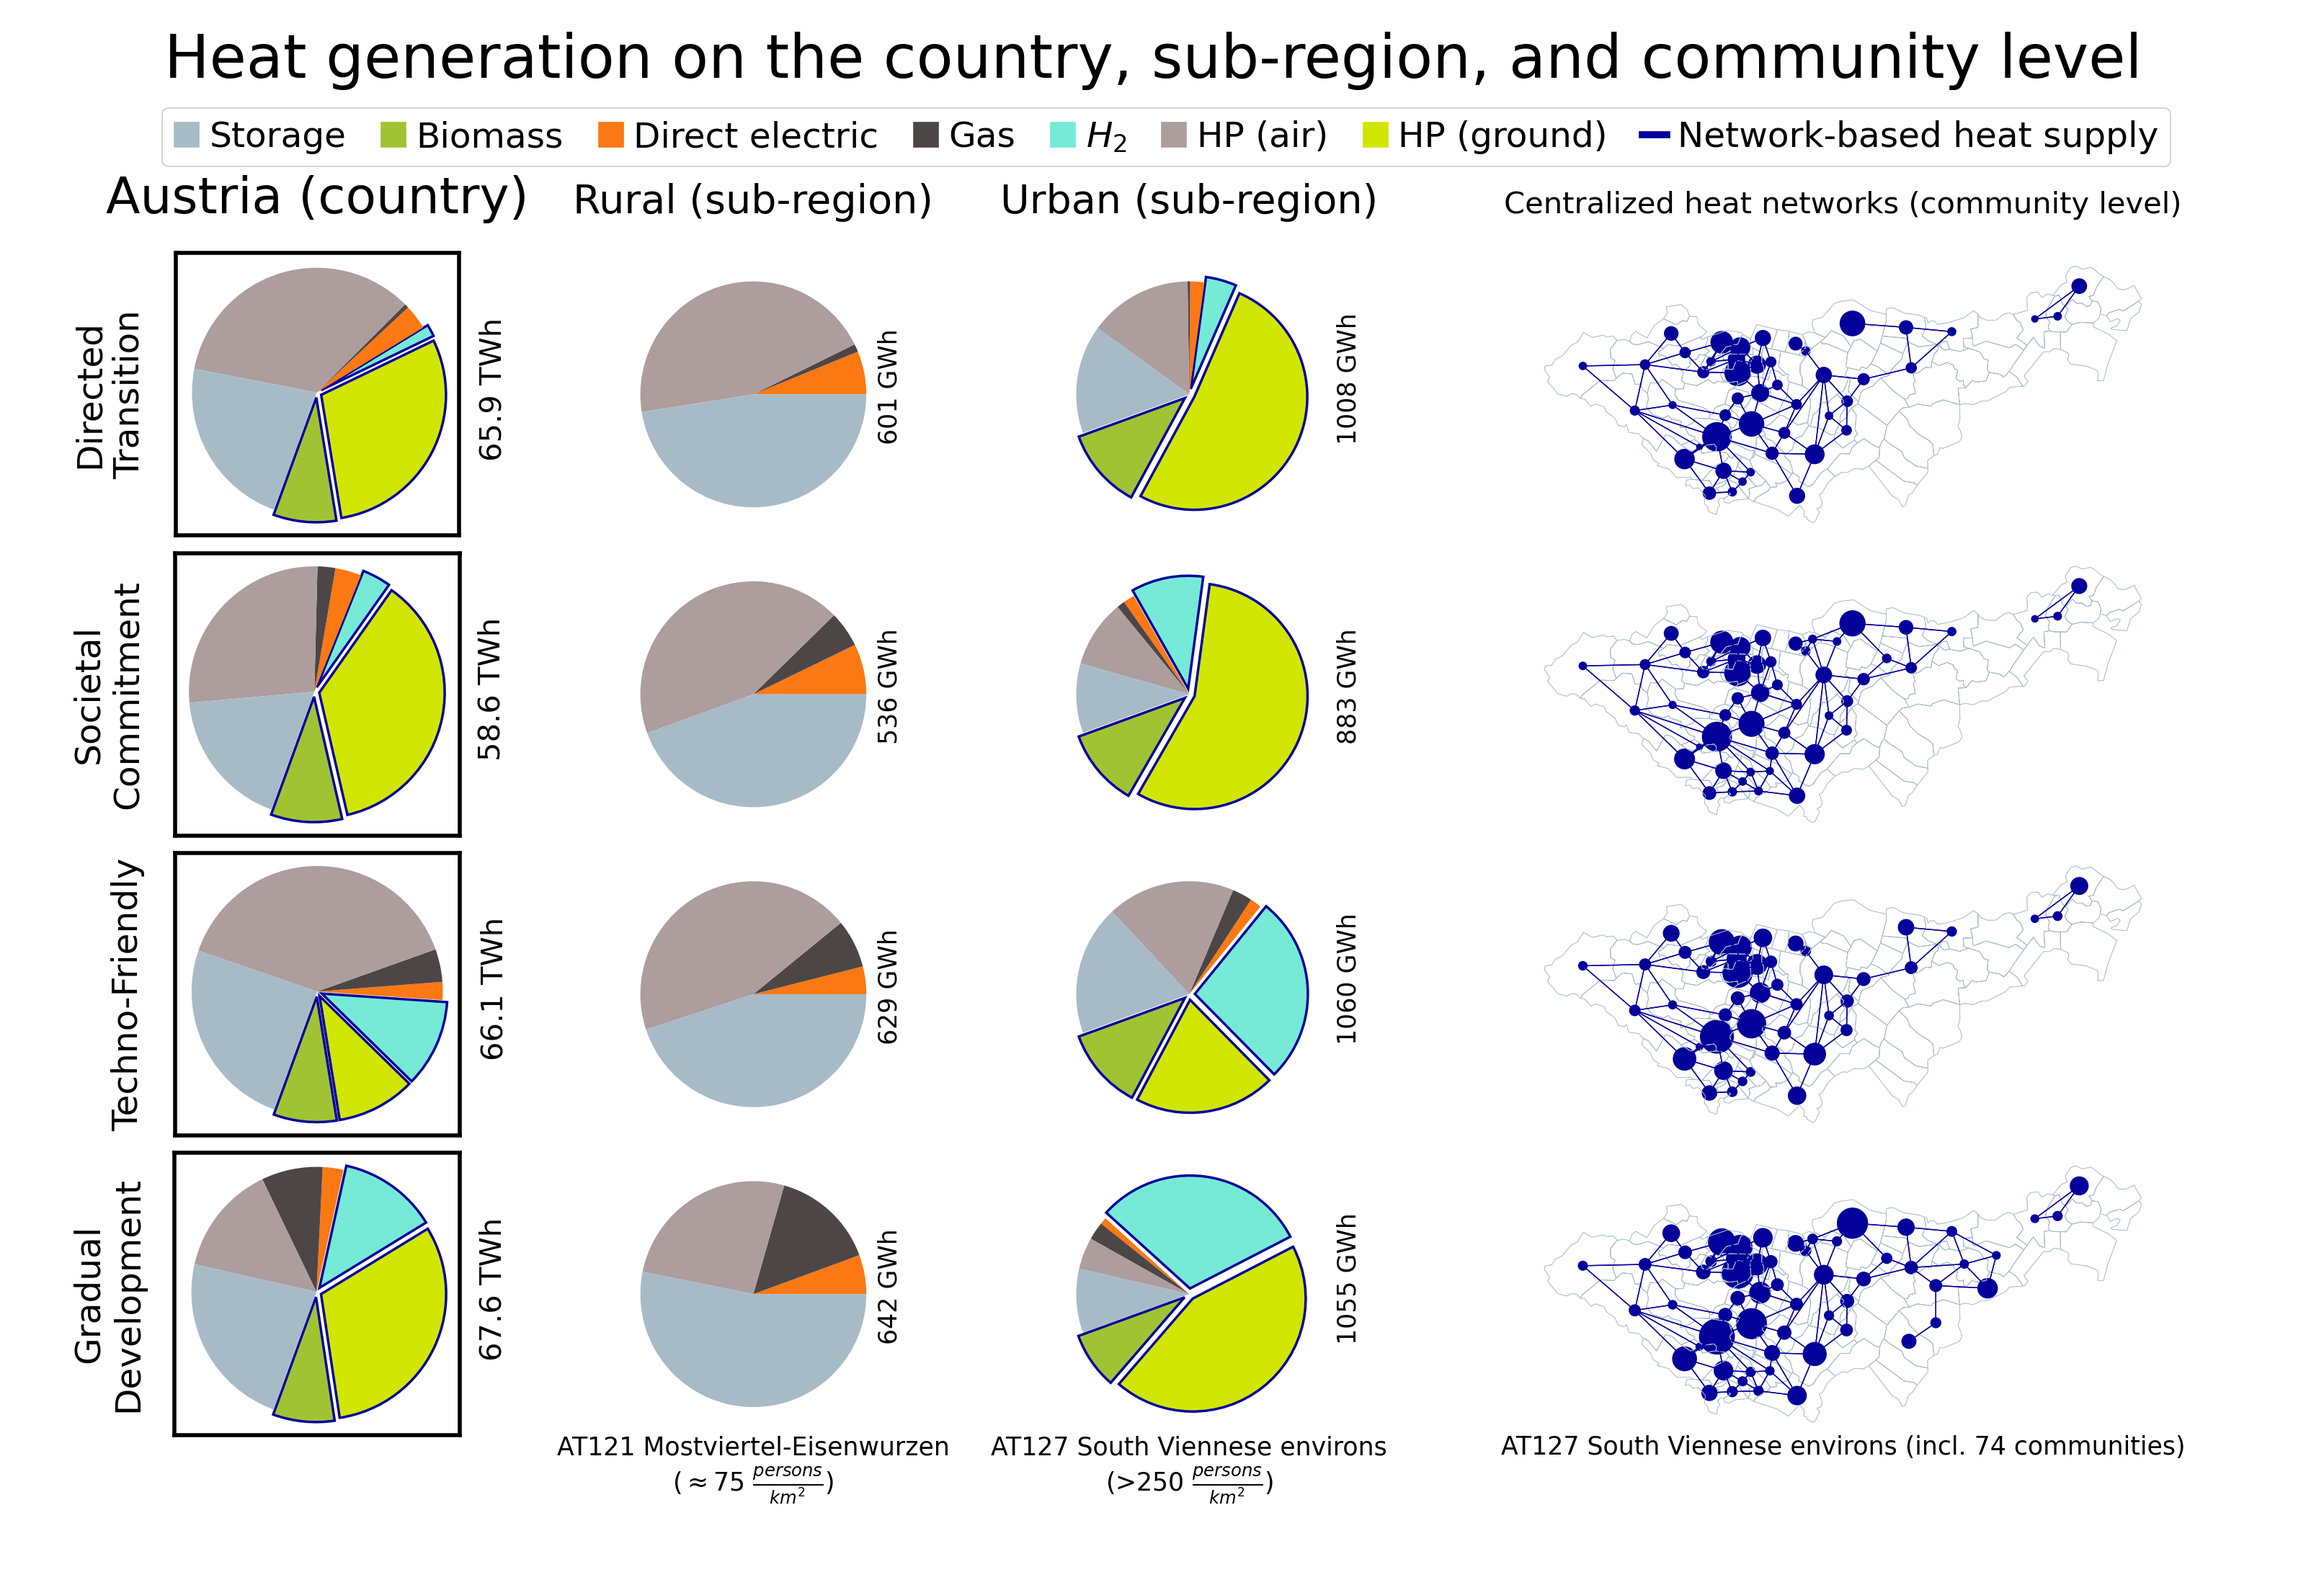
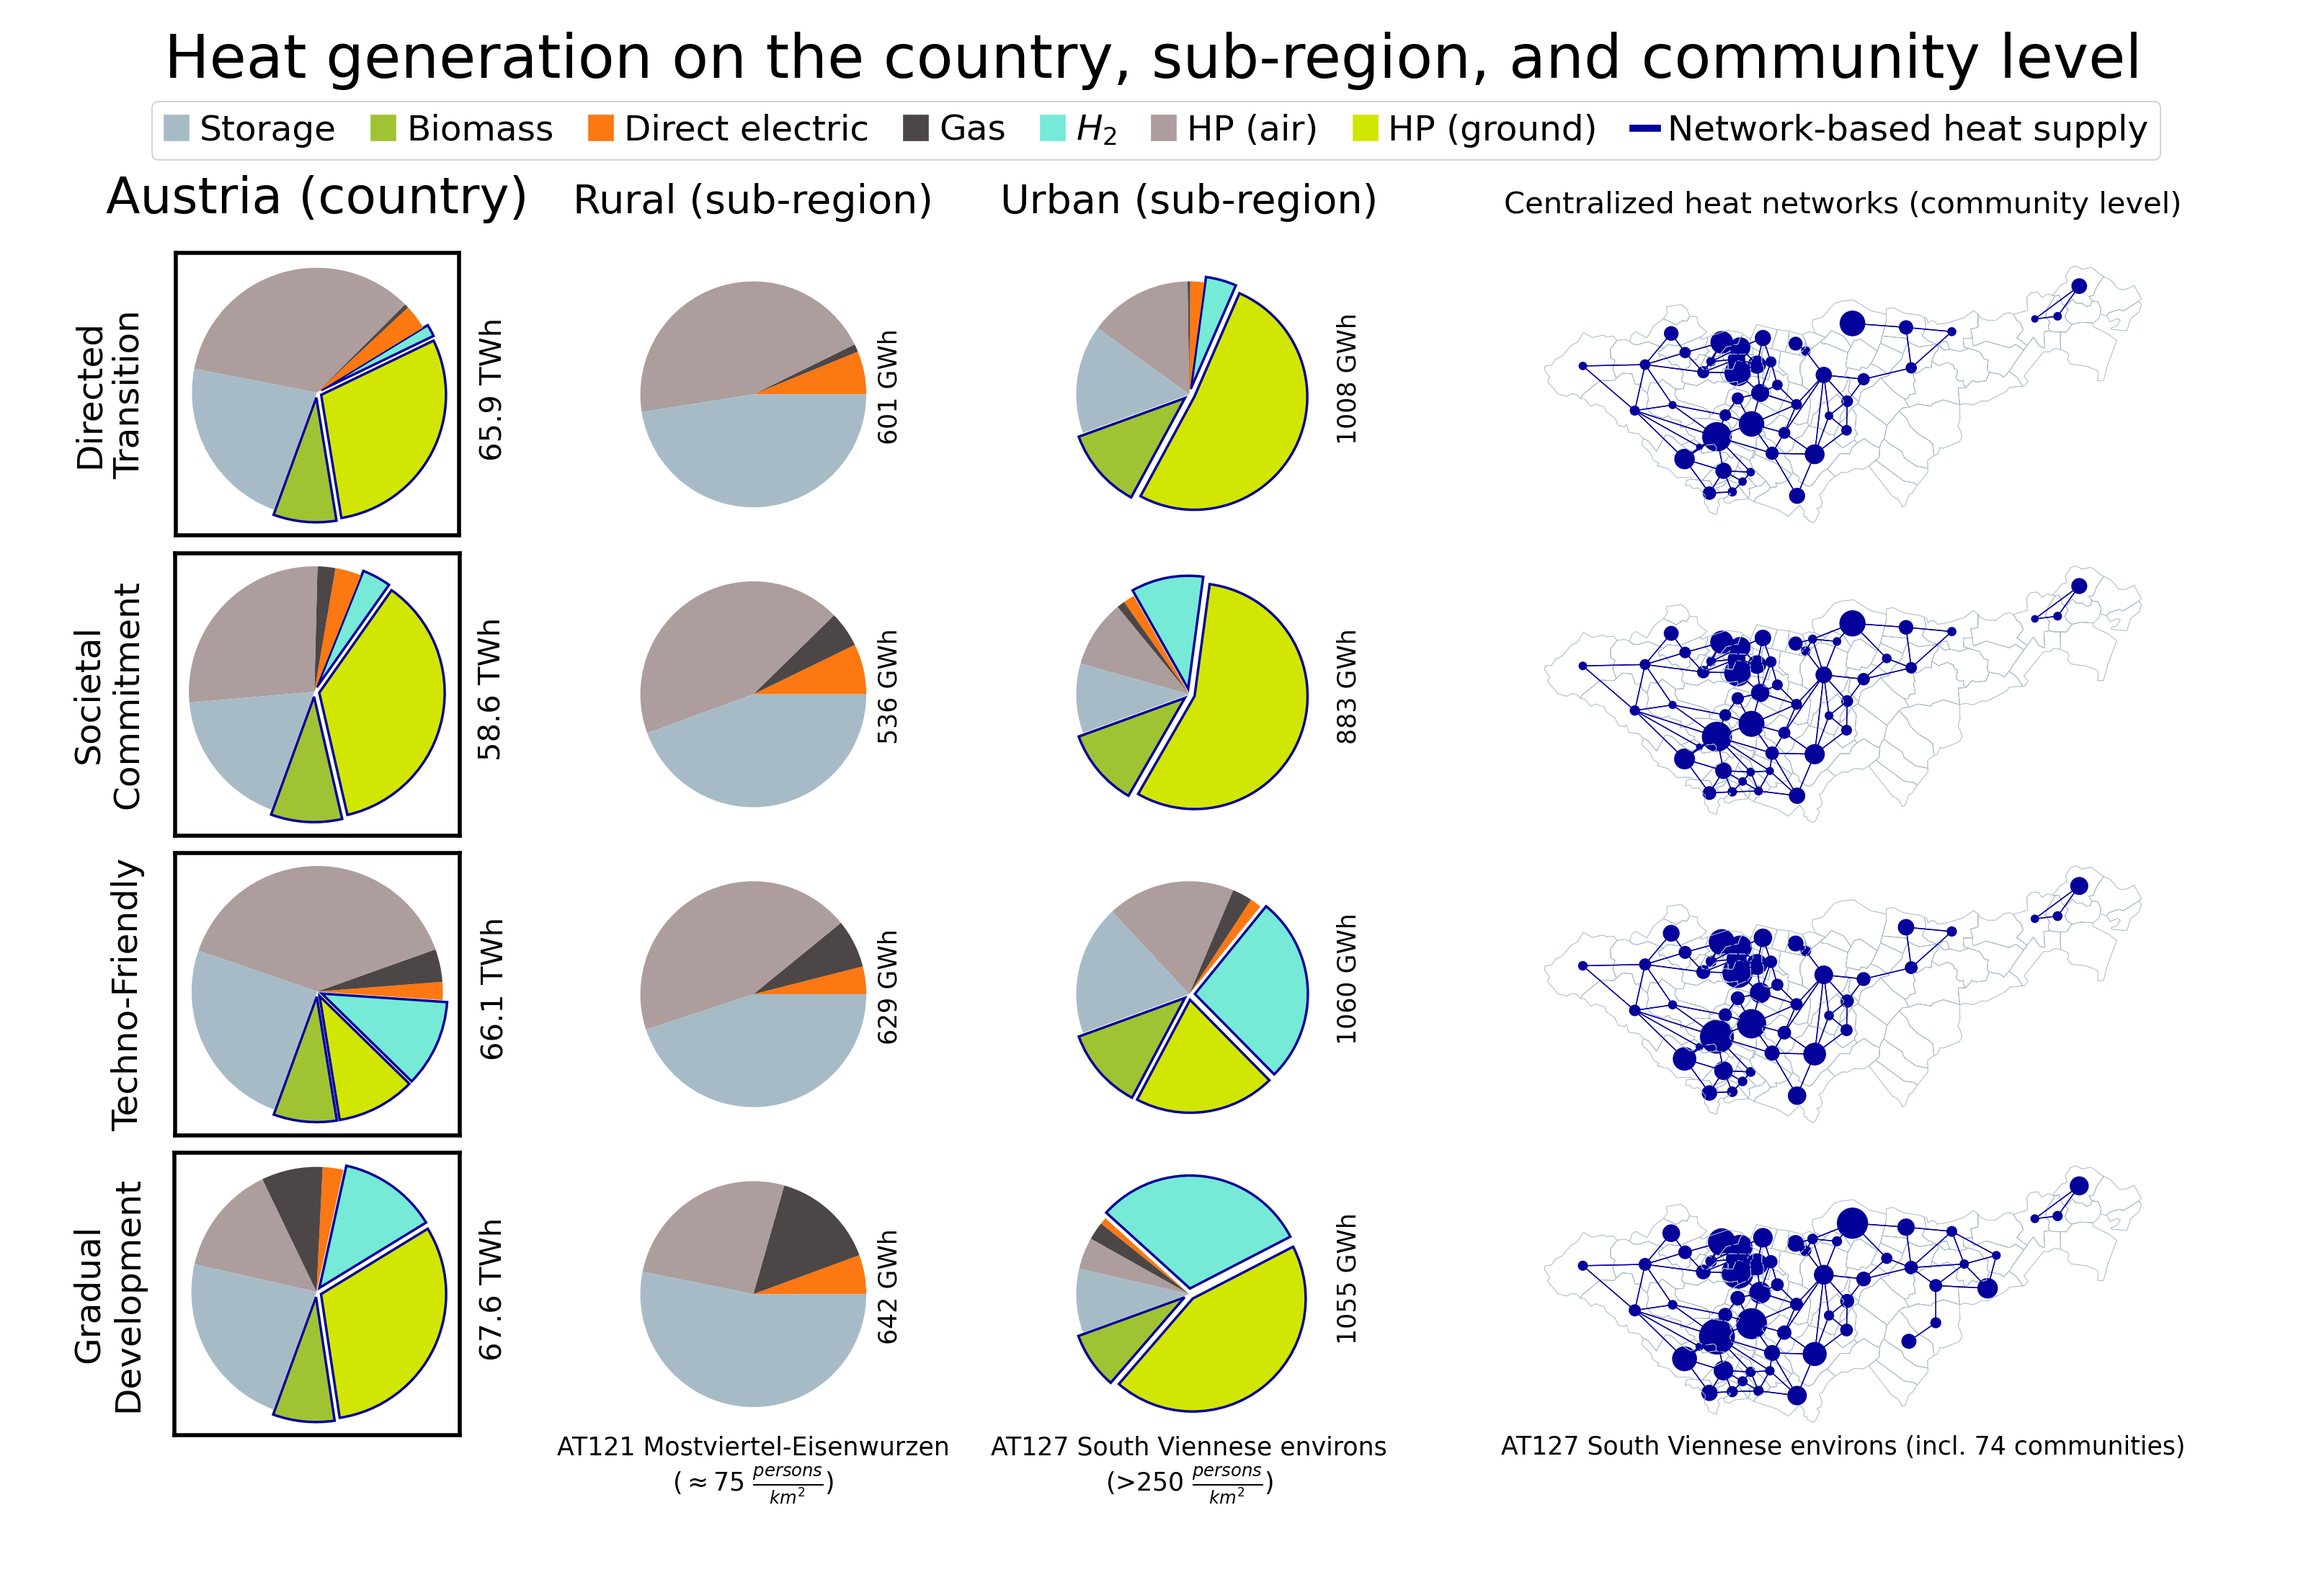
Update matrix plot

Changed region(s): [[0.0625, 0.0618, 0.9375, 0.0927]]

diff --git a/Manuscript/Figures/4_Results/Fig_Matrix-plot/Matrix_plot.py b/Manuscript/Figures/4_Results/Fig_Matrix-plot/Matrix_plot.py
@@ -368,6 +368,6 @@ _new_lines.plot(ax=fig_genesys_GD_LAU, color=_str, linewidth=0.2)
 
 fig.suptitle("Heat generation on the country, sub-region, and community level")
 plt.tight_layout(h_pad=0)
-fig_genesys_DT_AT.legend(handles=_patches, loc='upper right', fontsize=7, framealpha=1, handlelength=0.7, handletextpad=0.3, ncol=9, bbox_to_anchor=(7.1, 1.575), borderpad=0.35, columnspacing=1)
+fig_genesys_DT_AT.legend(handles=_patches, loc='upper right', fontsize=7, framealpha=1, handlelength=0.7, handletextpad=0.3, ncol=9, bbox_to_anchor=(7.065, 1.6), borderpad=0.35, columnspacing=1)
 fig.savefig("Result.png", dpi=500)
 fig.savefig("Spatial_results.eps", format="eps")
